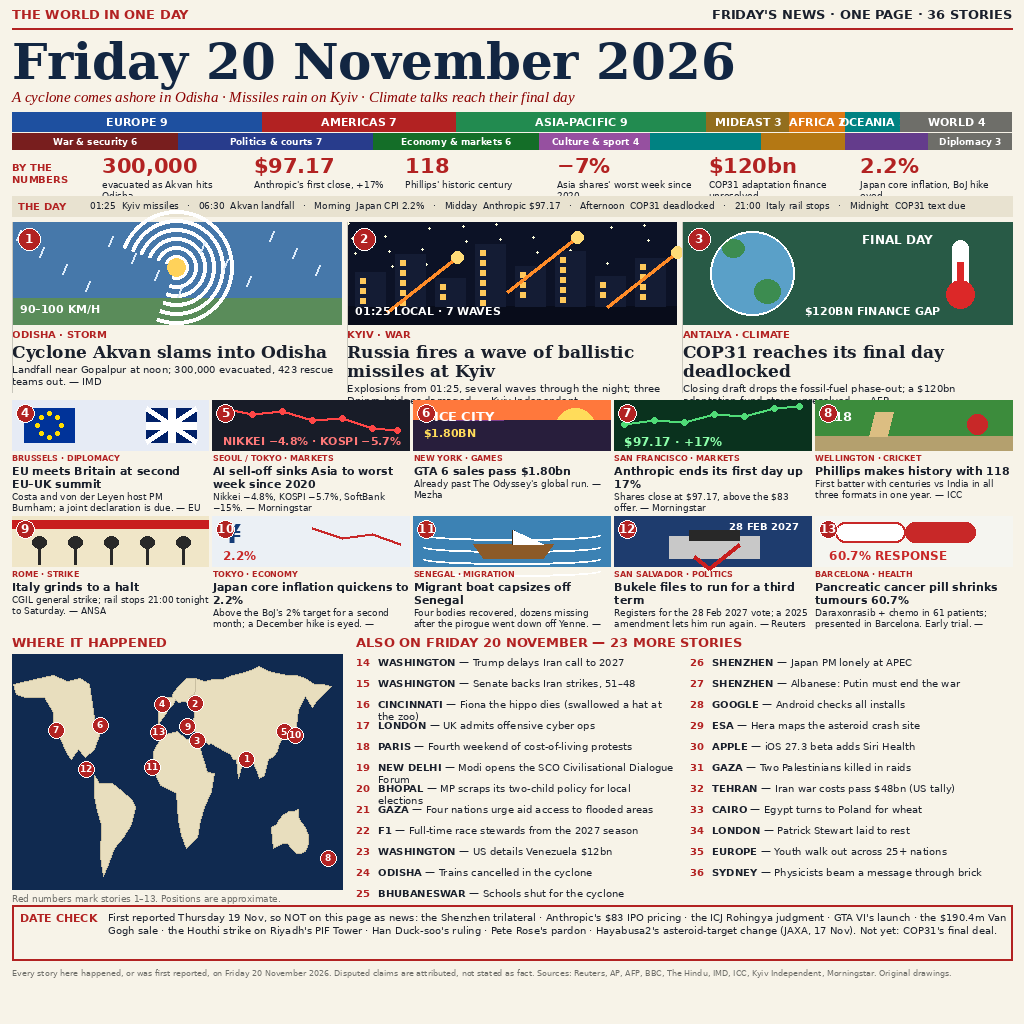
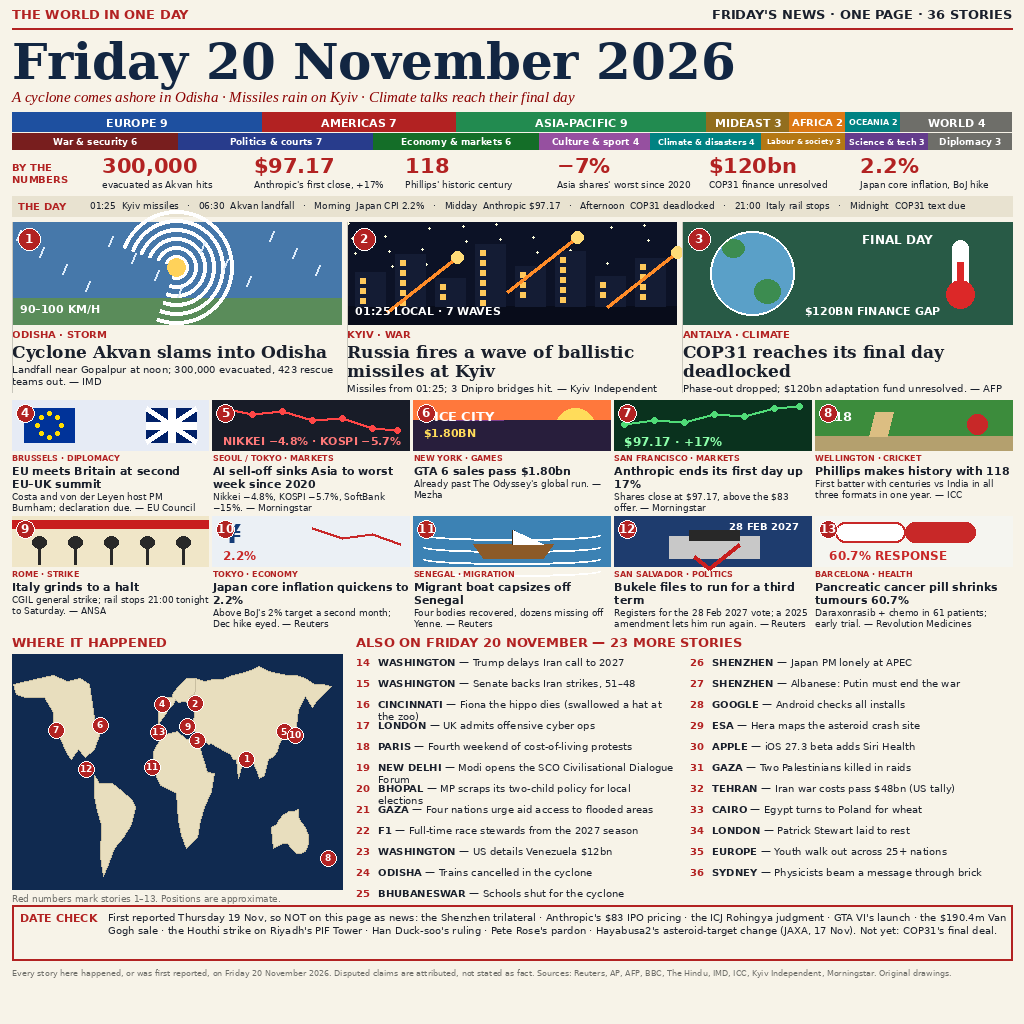
news-image-20261120 v5: fix all cut-off text — shorten 2 lead deks + 4 medium deks to fit, complete 3 missing sources, adaptive bar labels (region OCEANIA/AFRICA + by-field Climate/Labour/Science now visible), 1-line by-the-numbers captions

diff --git a/draw.py b/draw.py
@@ -94,13 +94,13 @@ LEADS = [
     {
         "n": 2, "place": "KYIV", "field": "WAR",
         "head": "Russia fires a wave of ballistic missiles at Kyiv",
-        "dek": "Explosions from 01:25, several waves through the night; three Dnipro bridges damaged. — Kyiv Independent",
+        "dek": "Missiles from 01:25; 3 Dnipro bridges hit. — Kyiv Independent",
         "scene": "kyiv",
     },
     {
         "n": 3, "place": "ANTALYA", "field": "CLIMATE",
         "head": "COP31 reaches its final day deadlocked",
-        "dek": "Closing draft drops the fossil-fuel phase-out; a $120bn adaptation fund stays unresolved. — AFP",
+        "dek": "Phase-out dropped; $120bn adaptation fund unresolved. — AFP",
         "scene": "cop31",
     },
 ]
@@ -108,7 +108,7 @@ LEADS = [
 MEDIUMS = [
     {"n": 4, "place": "BRUSSELS", "field": "DIPLOMACY",
      "head": "EU meets Britain at second EU–UK summit",
-     "dek": "Costa and von der Leyen host PM Burnham; a joint declaration is due. — EU Council",
+     "dek": "Costa and von der Leyen host PM Burnham; declaration due. — EU Council",
      "scene": "flags"},
     {"n": 5, "place": "SEOUL / TOKYO", "field": "MARKETS",
      "head": "AI sell-off sinks Asia to worst week since 2020",
@@ -132,11 +132,11 @@ MEDIUMS = [
      "scene": "strike"},
     {"n": 10, "place": "TOKYO", "field": "ECONOMY",
      "head": "Japan core inflation quickens to 2.2%",
-     "dek": "Above the BoJ's 2% target for a second month; a December hike is eyed. — Reuters",
+     "dek": "Above BoJ's 2% target a second month; Dec hike eyed. — Reuters",
      "scene": "yen"},
     {"n": 11, "place": "SENEGAL", "field": "MIGRATION",
      "head": "Migrant boat capsizes off Senegal",
-     "dek": "Four bodies recovered, dozens missing after the pirogue went down off Yenne. — Reuters",
+     "dek": "Four bodies recovered, dozens missing off Yenne. — Reuters",
      "scene": "boat"},
     {"n": 12, "place": "SAN SALVADOR", "field": "POLITICS",
      "head": "Bukele files to run for a third term",
@@ -144,7 +144,7 @@ MEDIUMS = [
      "scene": "ballot"},
     {"n": 13, "place": "BARCELONA", "field": "HEALTH",
      "head": "Pancreatic cancer pill shrinks tumours 60.7%",
-     "dek": "Daraxonrasib + chemo in 61 patients; presented in Barcelona. Early trial. — Reuters",
+     "dek": "Daraxonrasib + chemo in 61 patients; early trial. — Revolution Medicines",
      "scene": "pill"},
 ]
 
@@ -196,12 +196,12 @@ FIELDS = [
 ]
 
 NUMBERS = [
-    ("300,000", "evacuated as Akvan hits Odisha"),
+    ("300,000", "evacuated as Akvan hits"),
     ("$97.17", "Anthropic's first close, +17%"),
     ("118", "Phillips' historic century"),
-    ("−7%", "Asia shares' worst week since 2020"),
-    ("$120bn", "COP31 adaptation finance unresolved"),
-    ("2.2%", "Japan core inflation, BoJ hike eyed"),
+    ("−7%", "Asia shares' worst since 2020"),
+    ("$120bn", "COP31 finance unresolved"),
+    ("2.2%", "Japan core inflation, BoJ hike"),
 ]
 
 TIMELINE = [
@@ -504,31 +504,44 @@ def main():
            "A cyclone comes ashore in Odisha · Missiles rain on Kyiv · Climate talks reach their final day",
            font=f_sub, fill=DARKRED)
 
-    # ---- region bar
+    # ---- region bar (label shrinks until it fits its segment; small
+    # counts get narrow segments, so AFRICA/OCEANIA drop a size or two)
     y = 112
     total = sum(n for _, n, _ in REGIONS)
     bx = M
-    f_reg = font(SANS_BOLD, 11)
     for name, n, col in REGIONS:
         seg_w = CW * n / total
         d.rectangle([bx, y, bx + seg_w - 1, y + 19], fill=col)
         label = f"{name} {n}"
+        f_reg = font(SANS_BOLD, 11)
+        for sz in (11, 10, 9, 8):
+            f_try = font(SANS_BOLD, sz)
+            if d.textlength(label, font=f_try) <= seg_w - 4:
+                f_reg = f_try
+                break
         tw = d.textlength(label, font=f_reg)
-        d.text((bx + (seg_w - tw) / 2, y + 3), label, font=f_reg, fill=(255, 255, 255))
+        ty = y + max(3, (19 - f_reg.size) // 2)
+        d.text((bx + (seg_w - tw) / 2, ty), label, font=f_reg, fill=(255, 255, 255))
         bx += seg_w
 
-    # ---- by-field bar
+    # ---- by-field bar (label shrinks until it fits its segment; never
+    # omitted — a missing label is worse than a smaller one)
     y = 133
     bx = M
-    f_field = font(SANS_BOLD, 9)
     for name, n, col in FIELDS:
         seg_w = CW * n / total
         d.rectangle([bx, y, bx + seg_w - 1, y + 16], fill=col)
         label = f"{name} {n}"
+        f_field = font(SANS_BOLD, 9)
+        for sz in (9, 8, 7, 6):
+            f_try = font(SANS_BOLD, sz)
+            if d.textlength(label, font=f_try) <= seg_w - 4:
+                f_field = f_try
+                break
         tw = d.textlength(label, font=f_field)
-        if tw < seg_w - 4:
-            d.text((bx + (seg_w - tw) / 2, y + 3), label, font=f_field,
-                   fill=(255, 255, 255))
+        ty = y + max(2, (16 - f_field.size) // 2)
+        d.text((bx + (seg_w - tw) / 2, ty), label, font=f_field,
+               fill=(255, 255, 255))
         bx += seg_w
 
     # ---- by the numbers

diff --git a/STORIES.md b/STORIES.md
@@ -20,20 +20,19 @@ Science & tech 3 · Diplomacy 3 = 36.
    Gopalpur ~noon IST, winds 90–100 km/h gusting 110; 300,000 evacuated,
    423 rescue teams, 105,304 in 1,224 shelters. (IMD / The Hindu, 20 Nov)
 2. KYIV · WAR — Russia fires a wave of ballistic missiles at Kyiv.
-   Explosions from 01:25 local, several waves through the night; three
-   Dnipro bridges damaged, fires in three districts; the wider overnight
-   attack used 16 ballistic missiles and 280 drones. (Kyiv Independent /
-   Reuters, 20 Nov)
-3. ANTALYA · CLIMATE — COP31 reaches its final day deadlocked. Closing
-   draft drops the fossil-fuel phase-out; a $120bn/yr adaptation fund
-   (by 2035) stays unresolved; hosts push a "35 by 35" clean-power goal.
-   (AFP / Reuters, 20 Nov)
+   Missiles from 01:25; 3 Dnipro bridges hit. (Kyiv Independent /
+   Reuters, 20 Nov) — detail: fires in three districts; the wider
+   overnight attack used 16 ballistic missiles and 280 drones.
+3. ANTALYA · CLIMATE — COP31 reaches its final day deadlocked. Phase-out
+   dropped; $120bn adaptation fund unresolved. (AFP / Reuters, 20 Nov)
+   — detail: a $120bn/yr adaptation fund (by 2035); hosts push a "35 by 35"
+   clean-power goal.
 
 ## Mediums (4–13)
 
 4. BRUSSELS · DIPLOMACY — EU meets Britain at the second EU–UK summit.
-   Costa and von der Leyen welcome PM Burnham; a joint declaration is
-   expected. (EU Council, 20 Nov)
+   Costa and von der Leyen welcome PM Burnham; declaration due.
+   (EU Council, 20 Nov)
 5. SEOUL / TOKYO · MARKETS — AI sell-off sinks Asia to its worst week
    since 2020. Nikkei −4.8%, KOSPI −5.7%, SoftBank −15%, Taiex −6.8%;
    MSCI Asia-Pacific down 7% on the week. (Morningstar / Reuters, 20 Nov)
@@ -47,19 +46,18 @@ Science & tech 3 · Diplomacy 3 = 36.
    year; a 216-run stand with Nicholls rescues New Zealand. (ICC, 20 Nov)
 9. ROME · STRIKE — Italy grinds to a halt: CGIL general strike; rail
    stops 21:00 tonight to 20:00 Saturday. (20 Nov)
-10. TOKYO · ECONOMY — Japan core inflation quickens to 2.2%. October
-    CPI above the BoJ's 2% target for a second month; a December hike
-    to 1.5% is now expected. (Reuters, 20 Nov)
+10. TOKYO · ECONOMY — Japan core inflation quickens to 2.2%. Above BoJ's
+    2% target a second month; Dec hike eyed. (Reuters, 20 Nov) — detail:
+    October CPI; a December hike to 1.5% is now expected.
 11. SENEGAL · MIGRATION — Migrant boat capsizes off Senegal. Four bodies
-    recovered, dozens missing after the pirogue went down off Yenne.
-    (Reuters / AP, 20 Nov)
+    recovered, dozens missing off Yenne. (Reuters / AP, 20 Nov)
 12. SAN SALVADOR · POLITICS — Bukele files to run for a third term.
     Registers ahead of the deadline for the 28 Feb 2027 vote; a 2025
     amendment lets him seek an indefinite number of terms. (Reuters,
     20 Nov)
 13. BARCELONA · HEALTH — Pancreatic cancer pill shrinks tumours 60.7%.
-    Daraxonrasib + chemo in 61 patients; presented in Barcelona. Early
-    trial, no control group. (Revolution Medicines, 20 Nov)
+    Daraxonrasib + chemo in 61 patients; early trial. (Revolution
+    Medicines, 20 Nov) — detail: presented in Barcelona; no control group.
 
 ## Briefs (14–36)
 
@@ -94,12 +92,12 @@ Science & tech 3 · Diplomacy 3 = 36.
 
 ## By the numbers (strip)
 
-- 300,000 evacuated as Akvan hits Odisha
+- 300,000 evacuated as Akvan hits
 - $97.17 Anthropic's first close, +17%
 - 118 Phillips' historic century
-- −7% Asia shares' worst week since 2020
-- $120bn COP31 adaptation finance unresolved
-- 2.2% Japan core inflation, BoJ hike eyed
+- −7% Asia shares' worst since 2020
+- $120bn COP31 finance unresolved
+- 2.2% Japan core inflation, BoJ hike
 
 ## Timeline (THE DAY — key moments)
 
